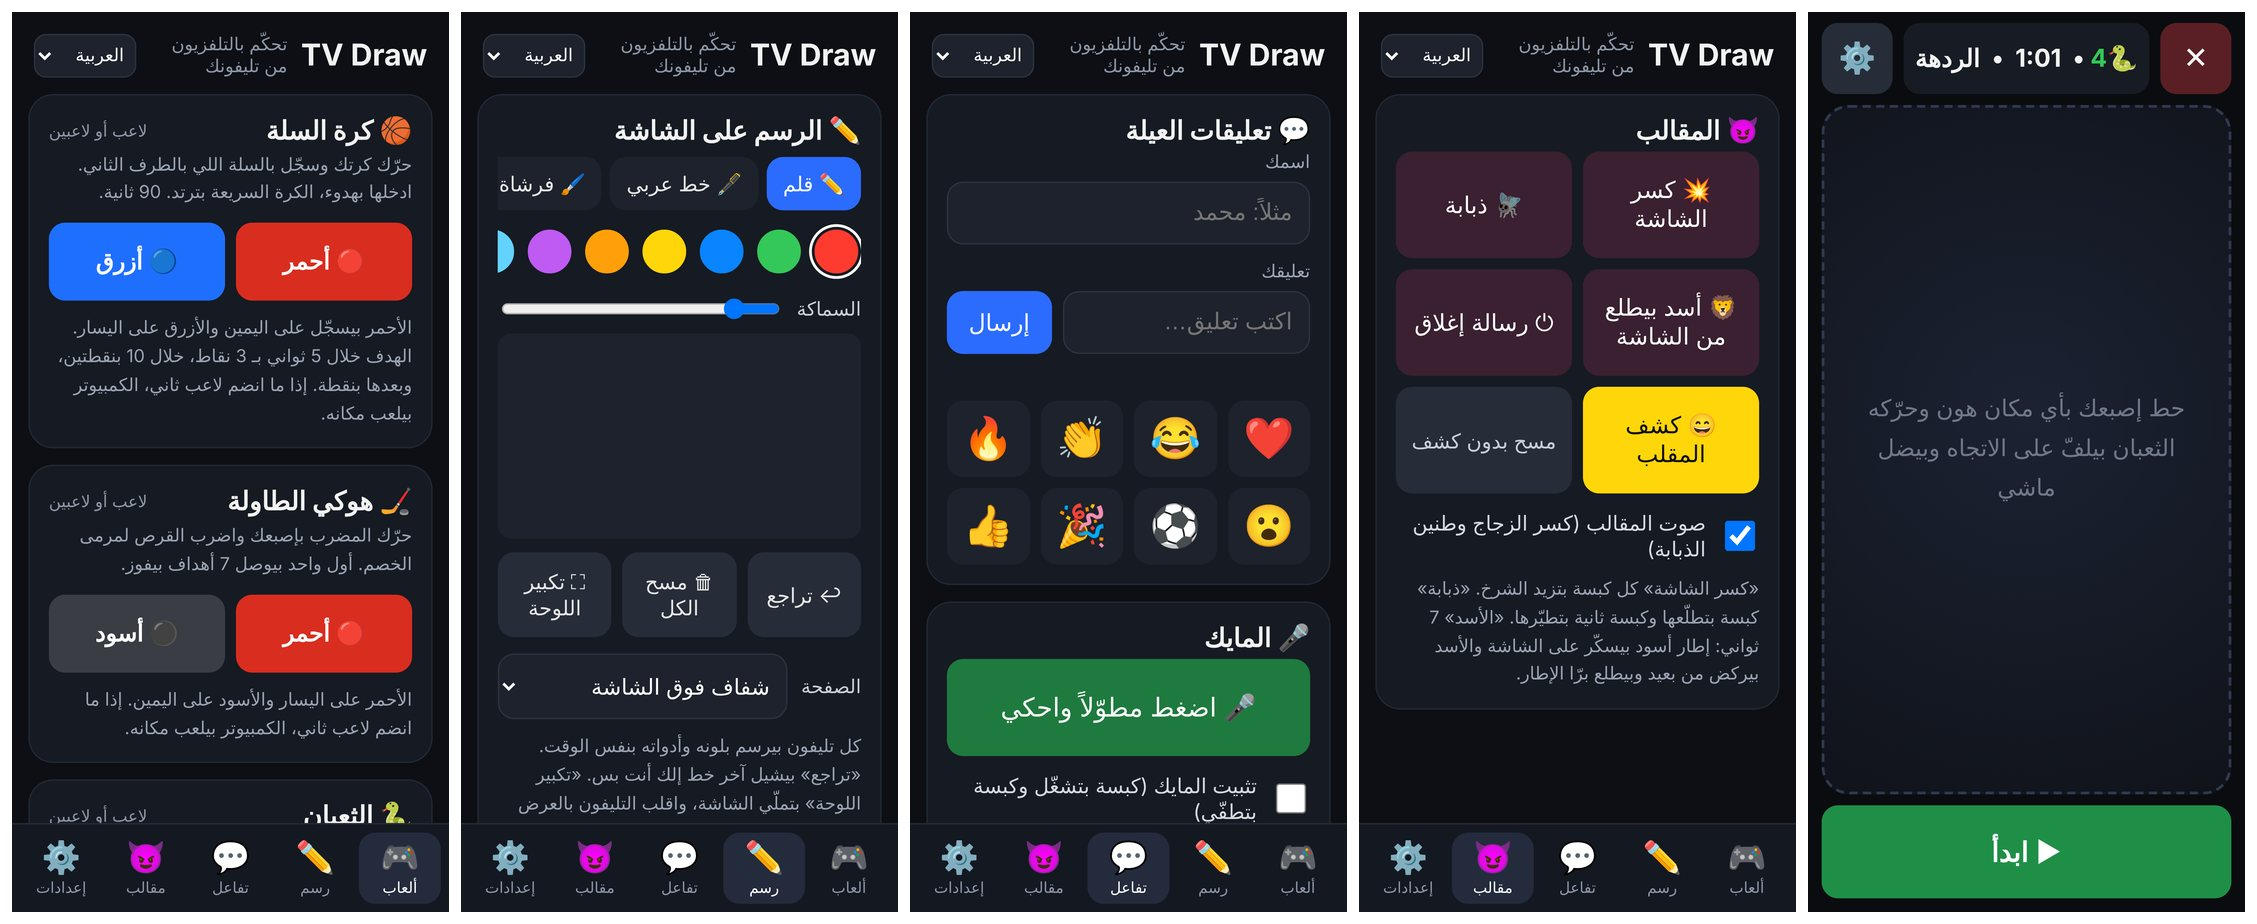
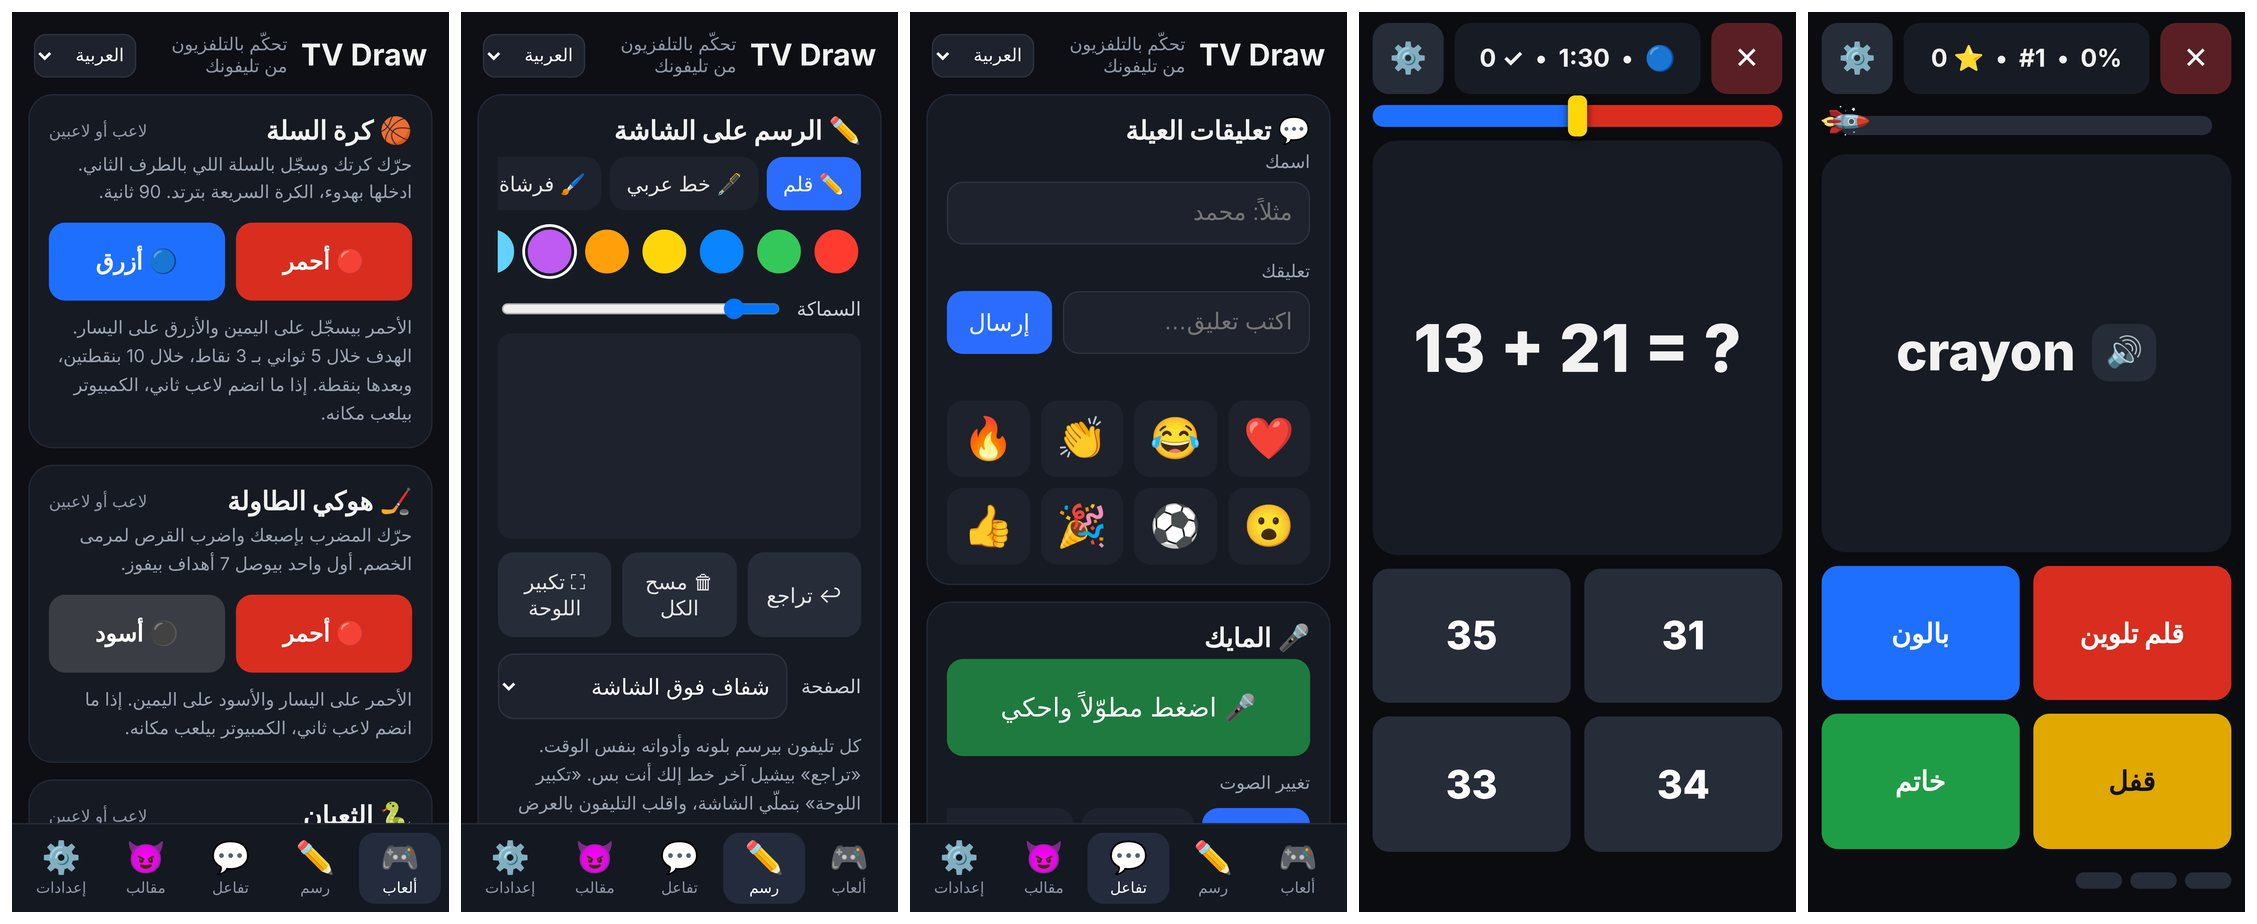
Describe the new games and features in both READMEs, with fresh screenshots
Claude-Session: https://claude.ai/code/session_01AqSutTfXRxmCCnwqo9gAEc

diff --git a/README.md b/README.md
@@ -3,7 +3,8 @@
 # TV Draw: fun and learning on your TV
 
 **Turn any Android TV into a shared family screen, controlled from your phone's browser.**
-Games, drawing, Arabic calligraphy, comments, a live microphone, harmless pranks and prayer alerts.
+Family games, learning games for maths and English, drawing, Arabic calligraphy, a live camera and microphone,
+harmless pranks and prayer alerts.
 
 [![Build](https://github.com/madmoh11/TV-FUN-LEARN/actions/workflows/build.yml/badge.svg)](https://github.com/madmoh11/TV-FUN-LEARN/actions/workflows/build.yml)
 [![Licence: MIT](https://img.shields.io/badge/licence-MIT-blue.svg)](LICENSE)
@@ -11,7 +12,7 @@ Games, drawing, Arabic calligraphy, comments, a live microphone, harmless pranks
 
 **English** | [العربية](README.ar.md)
 
-![TV screens: basketball, air hockey, snake, drawing, lion prank, calligraphy sheet](docs/images/tv.jpg)
+![TV screens: basketball, air hockey, snake, math tug of war, space race, drawing, lion prank, live camera](docs/images/tv.jpg)
 
 </div>
 
@@ -21,23 +22,58 @@ TV Draw is a small app for Android TV and TV boxes. It draws on top of whatever 
 match, the home screen. Everyone in the room controls it from their own phone by opening a web page. Phones need no app
 and no account, and nothing leaves your home network.
 
-![The phone page: games, drawing, comments and pranks](docs/images/phone-en.jpg)
+![The phone page: games, drawing, comments, and the controllers of the two learning games](docs/images/phone-en.jpg)
 
 ## Features
 
 | | |
 | --- | --- |
-| 🎮 **Games** | Basketball, air hockey and snake for one or two players, a math tug of war and an English vocabulary space race for up to six. |
+| 🎮 **Games** | Five games played on the TV with phones as controllers: see [the games](#the-games) below. |
 | ✏ **Drawing** | Several phones draw at once. Pen, brush, highlighter, neon, eraser, shapes and an Arabic calligraphy nib. |
 | 📄 **Pages** | Draw over the picture, or on ruled paper, a calligraphy sheet, squares, dots or a blackboard. |
 | 🔦 **Pointer** | A laser dot or a spotlight, moved by finger or by tilting the phone. |
 | 💬 **Family comments** | Names, messages and emoji float across the screen. |
-| 🎤 **Microphone** | Talk into your phone and be heard from the TV speakers, in your own voice or as a monster, a child, a robot and more. |
-| 📹 **Live camera** | Your phone camera in a corner of the TV, like a reporter at home. |
+| 🎤 **Microphone** | Talk into your phone and be heard from the TV speakers. |
+| 🎭 **Voice changer** | Speak as a monster, a deep-voiced man, a woman, a child, a chipmunk, a robot, an alien, or with a cave echo. |
+| 📹 **Live camera** | Your phone camera in a corner of the TV, like a reporter at home. Pick the corner and the size, up to full screen. |
 | 🖼 **Pictures** | Show a photo from your phone on the TV. |
+| 🔊 **Volume** | Turn the TV box volume up, down or mute it from your phone. |
 | 😈 **Pranks** | Cracked screen, a fly that walks around, a lion that jumps out of the screen, a fake shutdown message. |
 | 🕌 **Prayer alert** | A banner before each prayer, calculated on the device with no internet. |
 | 🌍 **Languages** | English and Arabic, with [an easy way to add more](docs/TRANSLATING.md). |
+
+## The games
+
+| Game | Players | How it works |
+| --- | --- | --- |
+| 🏀 **Basketball** | 1 or 2 | Move your ball with a joystick or by tilting the phone and score in the far hoop. Faster goals are worth more points. |
+| 🏒 **Air hockey** | 1 or 2 | Slide the mallet with your finger and hit the puck into the other goal. First to 7 wins. |
+| 🐍 **Snake** | 1 or 2 | Eat to grow and avoid crashing. Leave one edge and come back from the other. You can put your own face on the snake. |
+| 🪢 **Math tug of war** | 1 to 6 | Two teams solve sums on their phones; every correct answer pulls the rope. Easy, medium, hard, or a level that gets harder. Knockout, time limit and sudden death. |
+| 🚀 **Space race** | 1 to 6 | An English word appears on the phone and you pick its Arabic meaning. Correct answers fly your rocket to the planet. |
+
+Every game can be played alone: the computer takes the empty side.
+
+### Learning games in detail
+
+**Math tug of war.** Easy sums are worth 1 point, multiplying and dividing 2, and two-step sums 3 or 4. A wrong answer
+freezes your screen for a moment and lets the rope slip. Five correct answers in a row double your pull for five
+seconds. A smaller team pulls harder, so one fast player can stand against several. The end screen names the player
+with the most correct answers and the fastest one.
+
+**Space race.** The game ships with 1,000 English words in ten "galaxies": animals and nature, action verbs, school and
+objects, food and drinks, adjectives and feelings, home and family, jobs and places, time and weather, space and
+technology, and a master challenge. It is built to teach, not only to score:
+
+- A word you answered correctly does not come back until you finish its galaxy.
+- A word you got wrong keeps coming back until you answer it right twice.
+- The wrong choices come from the same galaxy and difficulty, so guessing is hard.
+- The phone can say each word aloud.
+- After the race the TV shows the words that were missed, with their meanings.
+- Answering within 2.5 seconds gives a bonus, three in a row charge a turbo, and every fifth question is a golden meteor.
+- Every 50 mastered words unlock a new spacecraft. Progress is saved on each phone.
+
+The words live in [`words_bank.json`](app/src/main/assets/data/words_bank.json) and can be extended without touching the code.
 
 ## Install
 
@@ -66,8 +102,8 @@ The second command in step 3 matters: without that permission the app closes as 
   link; your browser will warn that the connection is "not private" because the TV signs its own certificate.
   Choose *Advanced → Proceed*. Each TV creates its own key the first time the app runs.
 - **Who can control the TV.** Anyone on the same Wi-Fi who opens the address. Use it on a home network you trust.
-- **Privacy.** No accounts, no analytics, no internet access needed. Voice and pictures go from the phone straight
-  to the TV and are not saved.
+- **Privacy.** No accounts, no analytics, no internet access needed. Voice, camera and pictures go from the phone
+  straight to the TV and are not saved. Learning progress stays in the phone's browser.
 - **Browsers.** If the page does not open in one browser, try another one (Samsung Internet, Chrome, Firefox).
 - **Tested on** a Xiaomi Mi Box running Android 9. Other devices should work; please
   [report](https://github.com/madmoh11/TV-FUN-LEARN/issues) what you find.
